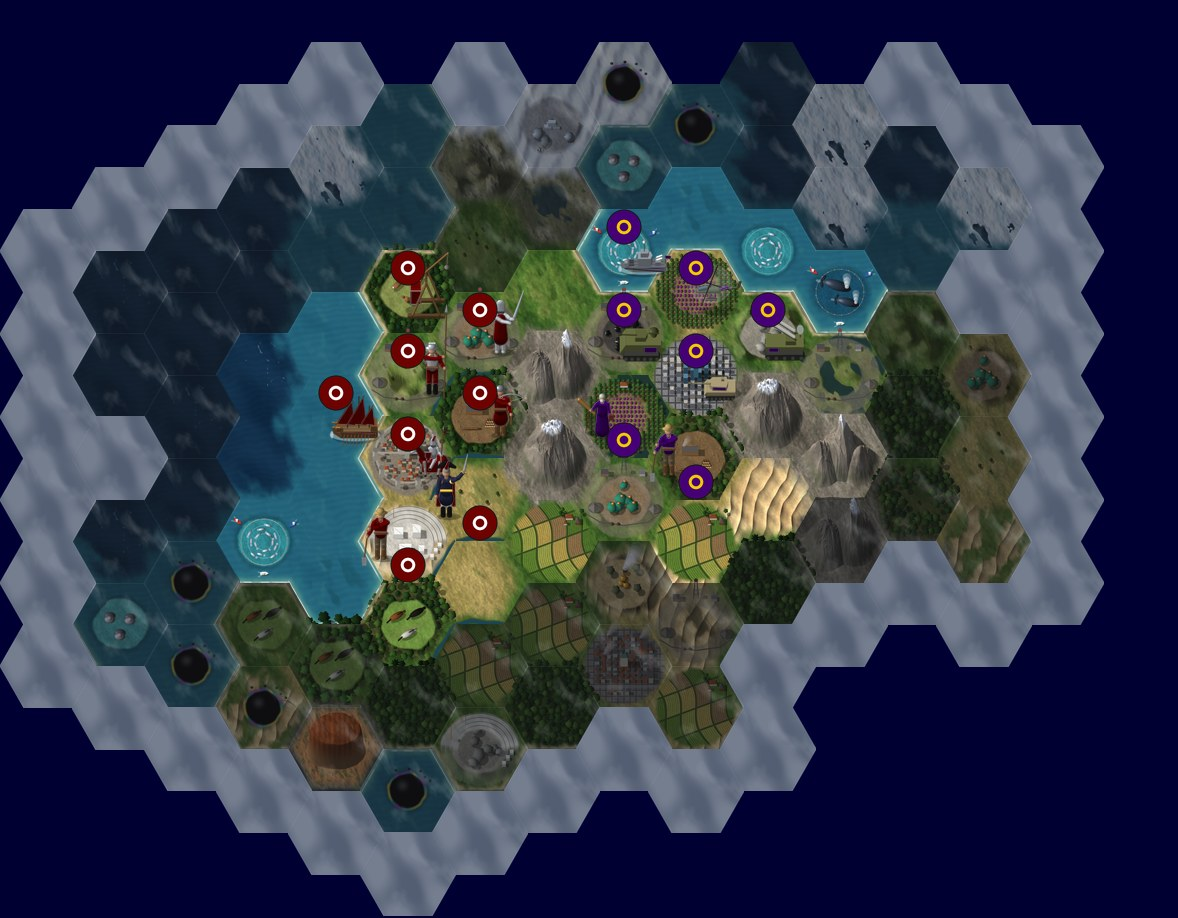
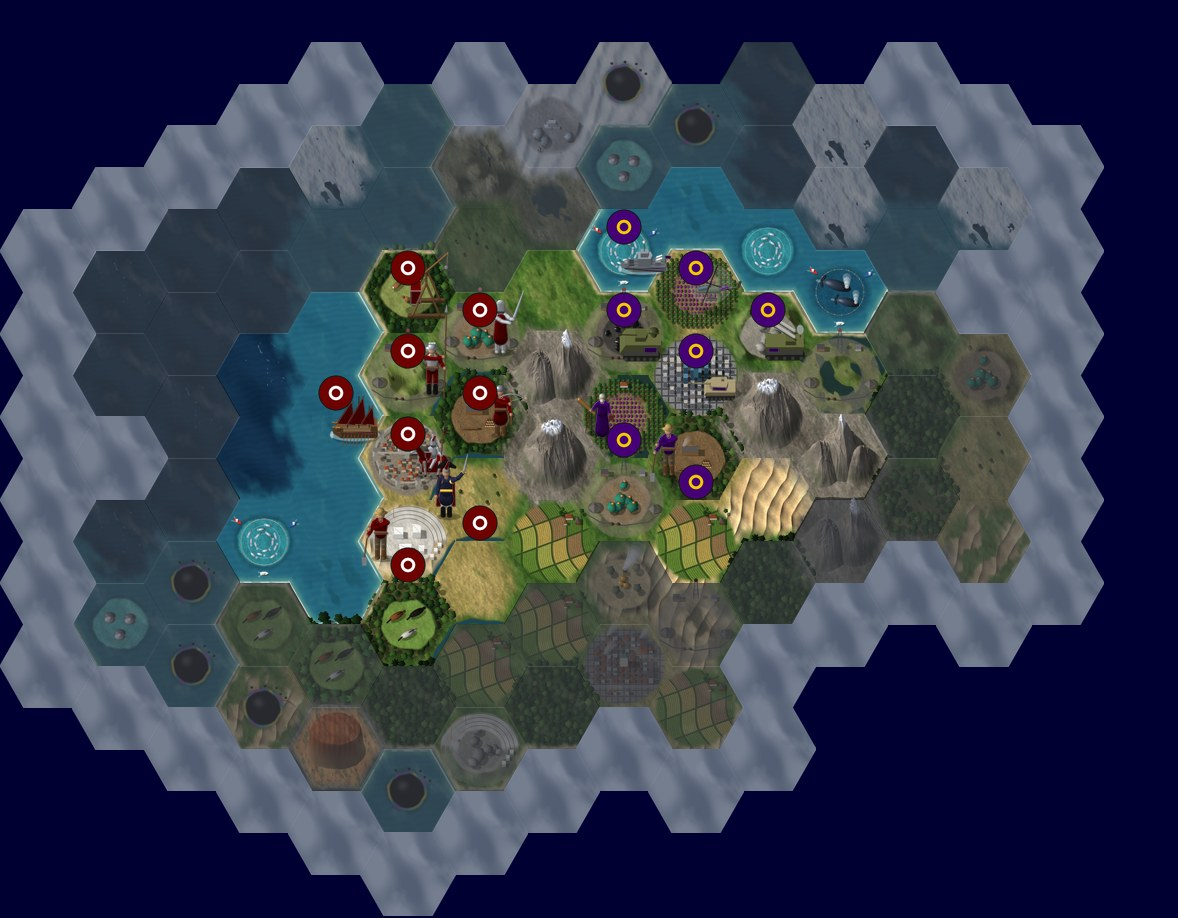
Make the fog of war more opaque
Unciv draws CrosshatchHexagon over seen-but-not-visible tiles at a
fixed 20% opacity. It was mostly transparent wisps, so it added much
less than that. It is now opaque light mist with soft brightness
variation, so the full 20% veil applies everywhere, and the fog colour
the terrain is tinted toward is a little darker. The overlay no longer
bleeds past the hex, so neighbouring fog tiles don't overlap in lines.

Claude-Session: https://claude.ai/code/session_01Cu3PVoypo5WL9i2xnNArhW

diff --git a/tools/render_tiles.py b/tools/render_tiles.py
@@ -858,11 +858,12 @@ def render_overlays():
     if wanted("Hexagon"):
         cv = Canvas(TILE_W)
         save(cv, premult(np.ones(cv.shape + (3,)), cv.hex_alpha(0.0)), "Hexagon")
-    if wanted("CrosshatchHexagon"):   # fog of war: thin cloud wisps, shown by the game at 20%
+    if wanted("CrosshatchHexagon"):   # fog of war: the game draws this at 20%, so it is opaque mist to get all of that
         cv = Canvas(TILE_W)
         a, b = warp(cv.a, cv.b, 0.3, 2, 4000)
-        n = fbm(a, b, 3, 5, 4001)
-        save(cv, premult(np.ones(cv.shape + (3,)), cv.hex_alpha() * (0.2 + 0.8 * smooth(0.42, 0.72, n))), "CrosshatchHexagon")
+        wisp = smooth(0.42, 0.72, fbm(a, b, 3, 5, 4001))
+        rgb = mix(C(.7, .74, .8), C(.95, .96, .98), wisp)
+        save(cv, premult(rgb, cv.hex_alpha(0.0)), "CrosshatchHexagon")   # no bleed: overlapping edges would show as lines
     if wanted("UnexploredTile"):      # never-seen tiles next to known ones: a bank of soft mist
         cv = Canvas(TILE_W)           # no shading or crisp detail, which would read as rocky relief
         a, b = warp(cv.a, cv.b, 0.3, 2, 4000)

diff --git a/README.md b/README.md
@@ -6,7 +6,7 @@ A tileset mod for [Unciv](https://github.com/yairm210/Unciv) that makes the map 
 
 ![Close-up](preview/close-up.jpg)
 
-As a player sees it, with fog of war and unit flags. Tiles you've seen but can't see now are darkened under thin wisps of mist, and a bank of fog marks the edge of the explored map:
+As a player sees it, with fog of war and unit flags. Tiles you've seen but can't see now are darkened under a layer of mist, and a bank of fog marks the edge of the explored map:
 
 ![Fog of war](preview/fog.jpg)
 
